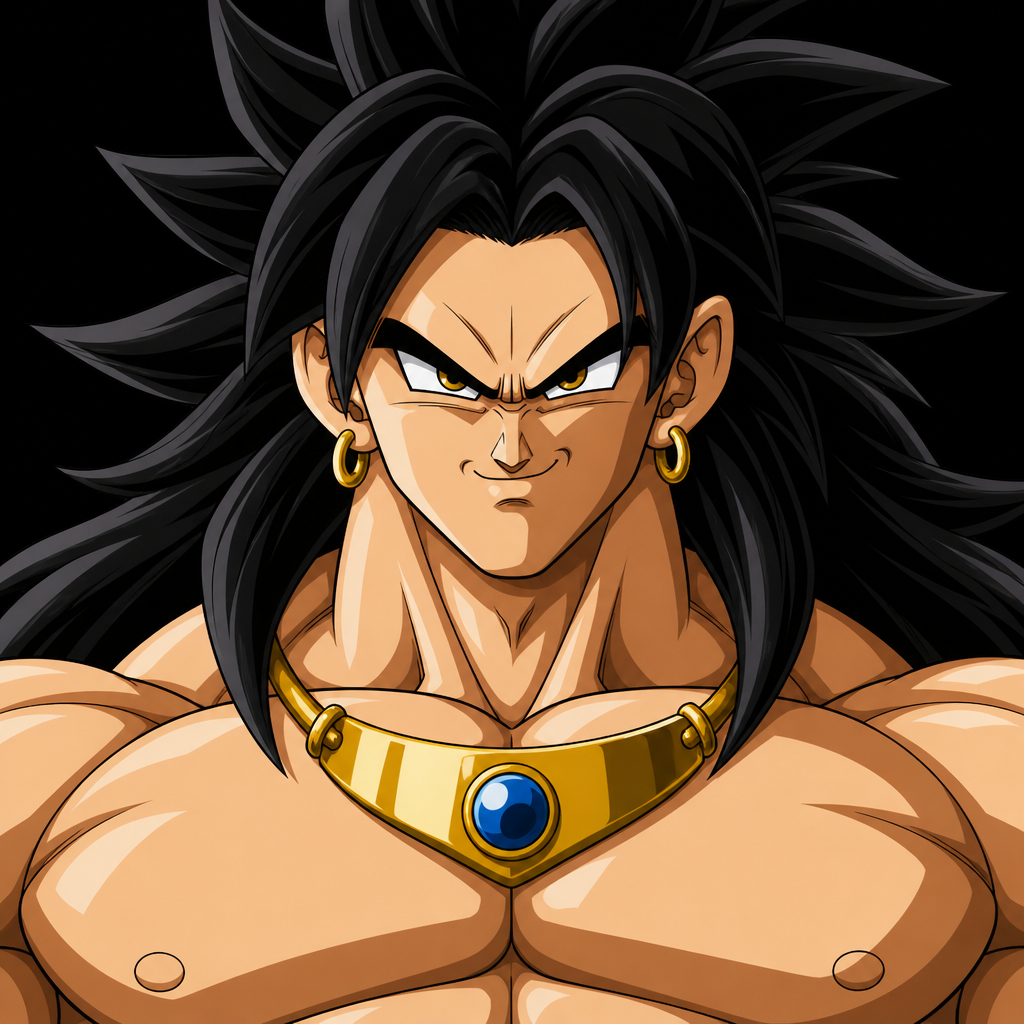
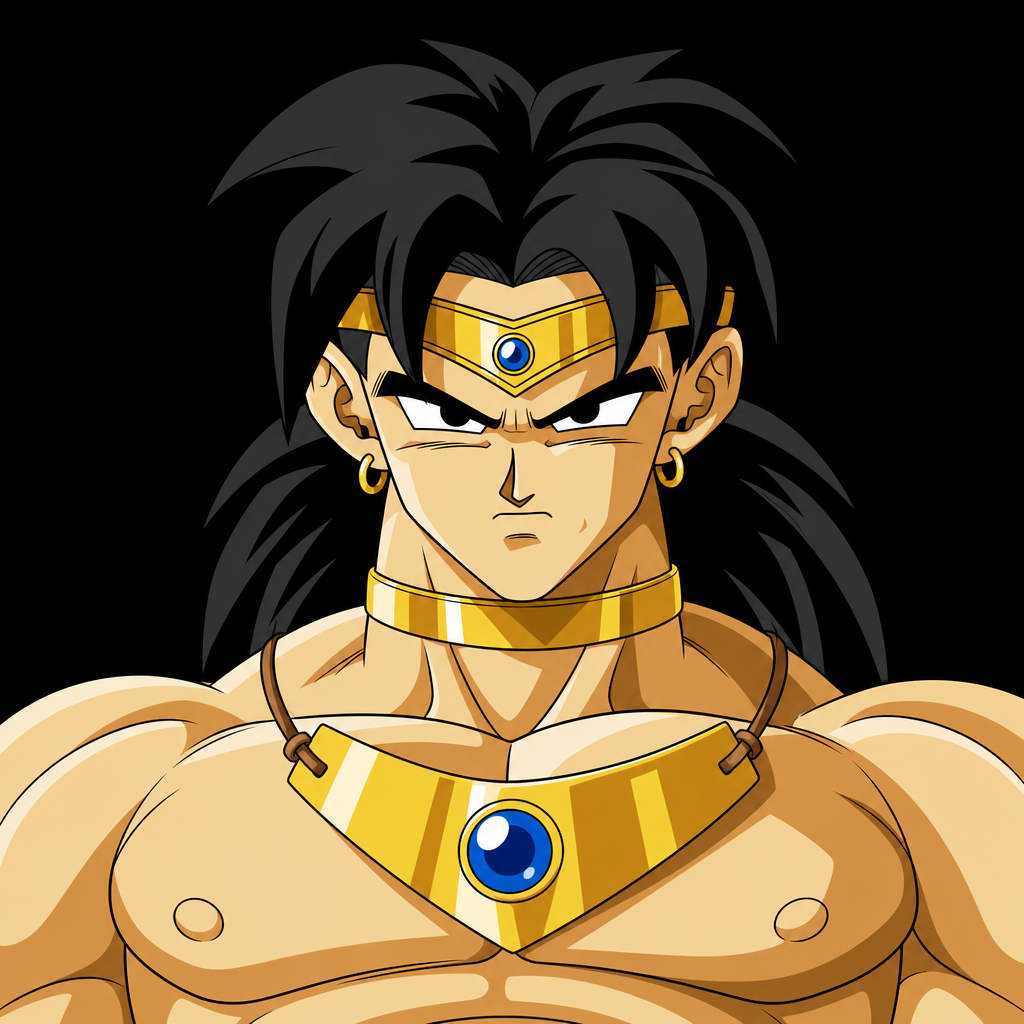
Adiciona a forma Restrained do Broly e recala os ataques nas maos.

diff --git a/js/game.js b/js/game.js
@@ -16,6 +16,7 @@
     ui: { key: "ui", aura: [232, 242, 255], scale: 1.04, shake: 8.0, silver: true },
     ue: { key: "ue", aura: [186, 48, 255], scale: 1.05, shake: 15.0 },
     rose: { key: "rose", aura: [255, 72, 168], scale: 1.04, shake: 13.2 },
+    restrained: { key: "restrained", aura: [48, 210, 200], scale: 1.01, shake: 4.4, ms: 3500 },
     legend: { key: "legend", aura: [86, 255, 78], scale: 1.16, shake: 20.0, lightning: true },
     beast: { key: "beast", aura: [248, 220, 255], scale: 1.14, shake: 18.0, lightning: true },
     mystic: { key: "mystic", aura: [255, 246, 214], scale: 1.06, shake: 14.0, ms: 4200, silver: true },
@@ -37,7 +38,7 @@
   };
 
   const ROSTER = [
-    { id: "broly", forms: ["base", "ssj"], supreme: "legend" },
+    { id: "broly", forms: ["base", "restrained", "ssj"], supreme: "legend" },
     { id: "sbroly", forms: ["base", "ssj"], supreme: "legend" },
     { id: "goku", forms: ["base", "ssj", "ssj2", "ssj3", "ssj4", "god", "blue", "kk20"], supreme: "ui" },
     { id: "vegeta", forms: ["base", "ssj", "ssj2", "ssj3", "ssj4", "god", "blue", "bluefp"], supreme: "ue" },
@@ -982,11 +983,11 @@
     };
     if (selected === "gohan") return {
       kind: "masenko", r: 255, g: 220, b: 80, lift: 0.04, aim: "fwd",
-      hx: 0.76, hy: 0.21, h1x: 0.74, h1y: 0.20, h2x: 0.78, h2y: 0.22,
+      hx: 0.88, hy: 0.18, h1x: 0.86, h1y: 0.16, h2x: 0.90, h2y: 0.20,
     };
     if (selected === "broly") return {
       kind: "cannon", r: 110, g: 255, b: 80, lift: 0.05, aim: "fwd",
-      hx: 0.88, hy: 0.30, h1x: 0.84, h1y: 0.30, h2x: 0.92, h2y: 0.30,
+      hx: 0.82, hy: 0.32, h1x: 0.78, h1y: 0.30, h2x: 0.86, h2y: 0.34,
     };
     if (selected === "sbroly") return {
       kind: "cannon", r: 120, g: 255, b: 70, lift: 0.05, aim: "fwd",
@@ -1002,7 +1003,7 @@
     };
     if (selected === "frieza") return {
       kind: "deathball", r: 150, g: 70, b: 255, lift: 0.04, aim: "fwd",
-      hx: 0.44, hy: 0.33, h1x: 0.40, h1y: 0.38, h2x: 0.48, h2y: 0.28,
+      hx: 0.91, hy: 0.25, h1x: 0.89, h1y: 0.25, h2x: 0.93, h2y: 0.25,
     };
     if (selected === "buu") return {
       kind: "blob", r: 255, g: 120, b: 200, lift: 0.05, aim: "fwd",
@@ -1559,8 +1560,14 @@
     const f = form();
     const idleImg = spriteFor(key, "idle");
     const img = spriteFor(key, pose);
-    const baseH = H * m.charH * f.scale;
-    const idleFit = fitSprite(idleImg, baseH, m.charMaxW);
+    let scale = f.scale;
+    let maxW = m.charMaxW;
+    if (selected === "broly" && key === "legend") {
+      scale = 1.38;
+      maxW = m.portrait ? W * 0.86 : W * 0.46;
+    }
+    const baseH = H * m.charH * scale;
+    const idleFit = fitSprite(idleImg, baseH, maxW);
     if (pose === "idle" || !img || img === idleImg) return { img: idleImg, box: motionBox(idleFit) };
     const roomW = Math.max(40, W - m.pad.l - m.pad.r - 24 * dpr);
     let posedFit = fitSprite(img, idleFit.h, roomW);

diff --git a/sw.js b/sw.js
@@ -1,4 +1,4 @@
-const CACHE = "broly-v21";
+const CACHE = "broly-v24";
 
 self.addEventListener("install", () => self.skipWaiting());
 

diff --git a/tools/mark_hands.py b/tools/mark_hands.py
@@ -10,12 +10,12 @@ OUT = Path(__file__).resolve().parents[1] / "tools" / "_hands"
 CUR = {
     "goku_ui_fire.png": (0.88, 0.33, 0.84, 0.33, 0.93, 0.33),
     "vegeta_ue_fire.png": (0.86, 0.40, 0.80, 0.38, 0.92, 0.40),
-    "gohan_beast_fire.png": (0.76, 0.21, 0.73, 0.19, 0.79, 0.22),
-    "legend_fire.png": (0.88, 0.30, 0.82, 0.30, 0.94, 0.30),
+    "gohan_beast_fire.png": (0.88, 0.18, 0.86, 0.16, 0.90, 0.20),
+    "legend_fire.png": (0.82, 0.32, 0.78, 0.30, 0.86, 0.34),
     "sbroly_legend_fire.png": (0.84, 0.32, 0.76, 0.32, 0.92, 0.32),
     "black_rose_fire.png": (0.82, 0.34, 0.74, 0.34, 0.90, 0.34),
     "cell_cultra_fire.png": (0.84, 0.31, 0.80, 0.28, 0.88, 0.34),
-    "frieza_fblack_fire.png": (0.49, 0.38, 0.47, 0.44, 0.51, 0.32),
+    "frieza_fblack_fire.png": (0.91, 0.25, 0.89, 0.25, 0.93, 0.25),
     "buu_kid_fire.png": (0.70, 0.36, 0.62, 0.36, 0.78, 0.36),
 }
 

diff --git a/README.md b/README.md
@@ -15,6 +15,7 @@ Depois acesse `http://localhost:8080`.
 - **Toque no retrato** (ou escolha na lista) para trocar de personagem: Broly, Super Broly, Goku, Vegeta, Gohan, Goku Black, Cell, Freeza e Majin Buu.
 - **Segure no personagem** para carregar a transformação daquela trilha.
 - **Solte** para parar na forma atual.
+- Broly clássico passa por **Restrained** antes do Super Saiyan.
 - Formas extras na trilha: Goku **Kaio-ken x20** e Vegeta **Blue Full Power**.
 - No fim da trilha, toque na **forma suprema** (Legend, UI, UE, Rose, Beast, Cell Ultra, Black Freeza, Kid Buu — conforme o personagem).
 - **Desenhe um círculo** na tela (fora do personagem) para o ataque de energia.
